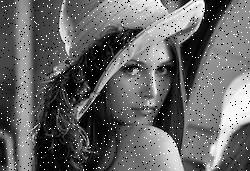
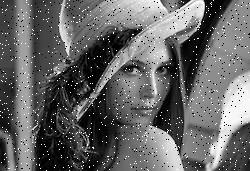
Average and median filters

diff --git a/convolution.py b/convolution.py
@@ -1,6 +1,7 @@
 from PIL import Image
 import numpy as np
 import random
+import math
 from matplotlib import pyplot as plt
 
 class Convolution:
@@ -40,17 +41,42 @@ class Convolution:
         new_image = np.array(image)
         height = len(image)
         width = len(image[0])
+        kernel_center = math.floor(len(matrix) / 2)
 
         for row_index in range(height-kernel_size):
             for col_index in range(width-kernel_size):
 
                 image_part = image[row_index:row_index+kernel_size, col_index:col_index+kernel_size]
-                result = np.dot(matrix, image_part)
-                result = np.average(result)
-                new_image[row_index+1, col_index+1] = result
-                print(result)
-
+                result = matrix * image_part
+                result_average = np.average(result)
+                new_image[row_index + kernel_center, col_index + kernel_center] = result_average
 
         s_n_p = Image.fromarray(new_image, mode='L')
         s_n_p.show()
         s_n_p.save('average.jpg')
+
+    def filter_median(self, image):
+
+        matrix = [
+            [1, 1, 1],
+            [1, 1, 1],
+            [1, 1, 1]
+        ]
+        kernel_size = len(matrix)
+
+        new_image = np.array(image)
+        height = len(image)
+        width = len(image[0])
+        kernel_center = math.floor(len(matrix) / 2)
+
+        for row_index in range(height-kernel_size):
+            for col_index in range(width-kernel_size):
+
+                image_part = image[row_index:row_index+kernel_size, col_index:col_index+kernel_size]
+                result = matrix * image_part
+                result_average = np.median(result)
+                new_image[row_index + kernel_center, col_index + kernel_center] = result_average
+
+        s_n_p = Image.fromarray(new_image, mode='L')
+        s_n_p.show()
+        s_n_p.save('median.jpg')

diff --git a/main.py b/main.py
@@ -4,3 +4,4 @@ convolution = Convolution()
 image = convolution.load_image('lena_low.jpg')
 image = convolution.salt_and_pepper(image)
 convolution.filter_average(image)
+convolution.filter_median(image)
